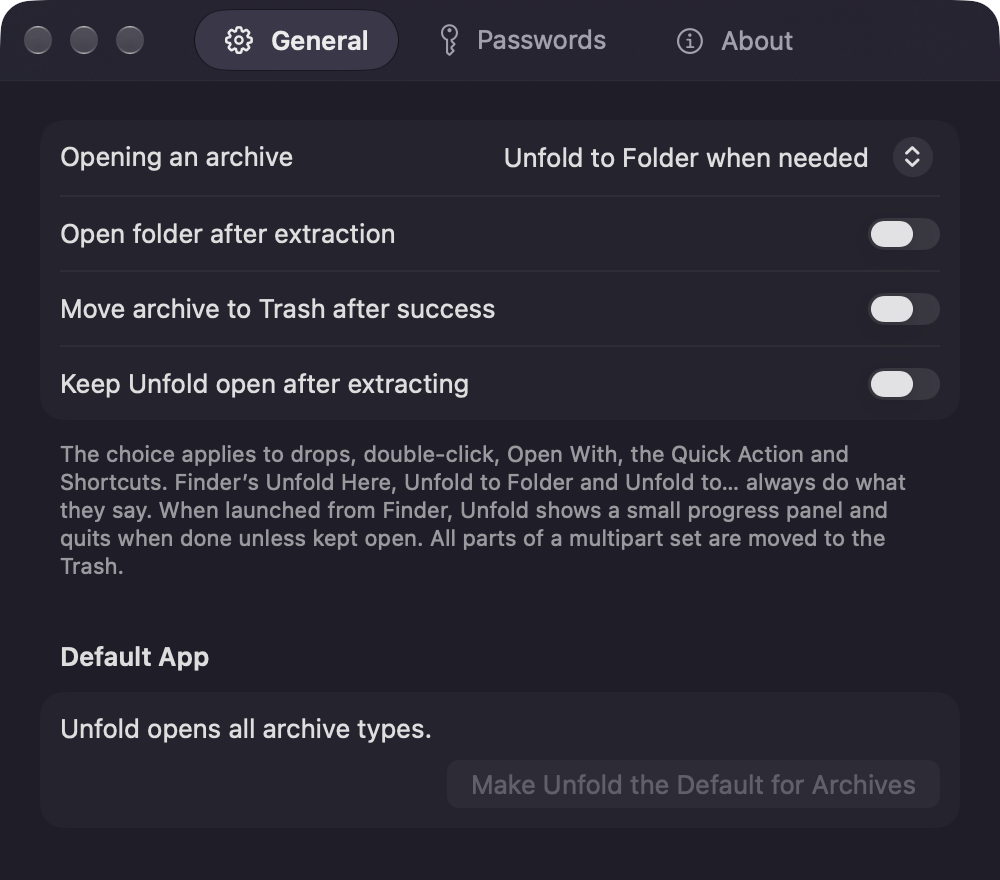
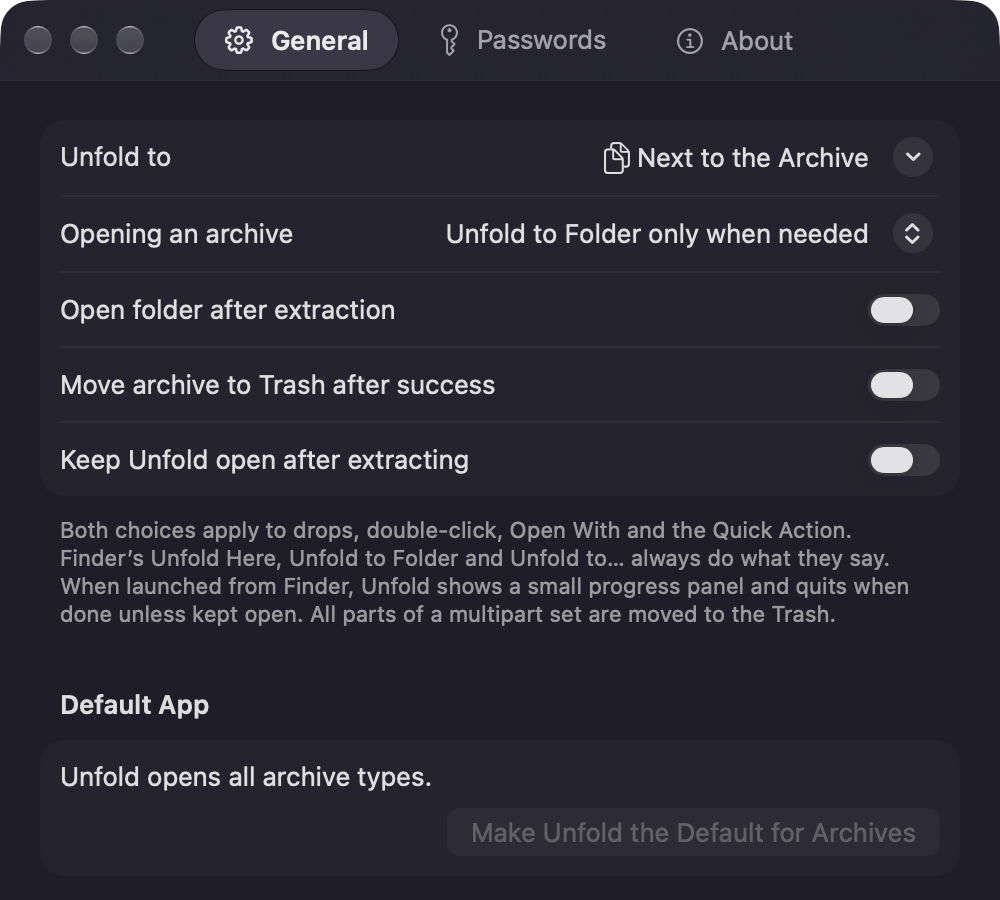
Guide (Mac): welcome screen with Unfold to, new General screenshot

diff --git a/unfold/help/index.html b/unfold/help/index.html
@@ -20,10 +20,18 @@
 <h2 id="mac">Mac</h2>
 
 <h3>1. The first start</h3>
-<p>The welcome screen asks once for access to your home folder. macOS only lets apps into folders you allow, and
-Unfold needs the archive's folder to find the other parts of a multipart set and to save next to it. Allowing
-your home folder covers Downloads, Desktop and Documents. “Not Now” works too; Unfold then asks per folder when it
-needs one. Open the welcome screen again with <b>?</b> in the main window or in Settings › About › Help.</p>
+<figure class="shot window narrow">
+  <img src="img/mac-welcome.png" alt="The welcome screen: where unfolded files go, and access to your home folder" loading="lazy">
+</figure>
+<p>The welcome screen asks two things, once:</p>
+<ul>
+  <li><b>Where unfolded files go:</b> next to the archive (the default), or <b>Choose Folder…</b> to pick a folder
+  for everything. You can change it any time in Settings › General › Unfold to.</li>
+  <li><b>Access to your home folder:</b> macOS only lets apps into folders you allow, and Unfold needs the archive's
+  folder to find the other parts of a multipart set and to save next to it. Allow your home folder once, or choose
+  “Not Now”; Unfold then asks for each folder when it needs one.</li>
+</ul>
+<p>Open the welcome screen again with <b>?</b> in the main window or in Settings › About › Help.</p>
 
 <h3>2. Unfold from Finder</h3>
 <figure class="shot">
@@ -75,7 +83,8 @@ shakes the field instead of failing the archive.</p>
 </div>
 <p>Settings (the gear in the main window, or Unfold › Settings…) always opens on <b>General</b>:</p>
 <ul>
-  <li><b>General:</b> where archives go, open the folder afterwards, move the archive to the Trash after success,
+  <li><b>General:</b> <b>Unfold to</b> (next to the archive or a folder you choose), how archives are laid out
+  (<b>Unfold to Folder only when needed</b>, Unfold Here or Unfold to Folder), open the folder afterwards, move the archive to the Trash after success,
   keep Unfold open, make Unfold the default app for archives, and the folders Unfold may use.</li>
   <li><b>Passwords:</b> passwords you use often. For an encrypted archive, Unfold tries them from top to bottom
   before asking and, if you like, moves the one that worked to the top. Add with <b>+</b>, drag to reorder, click
